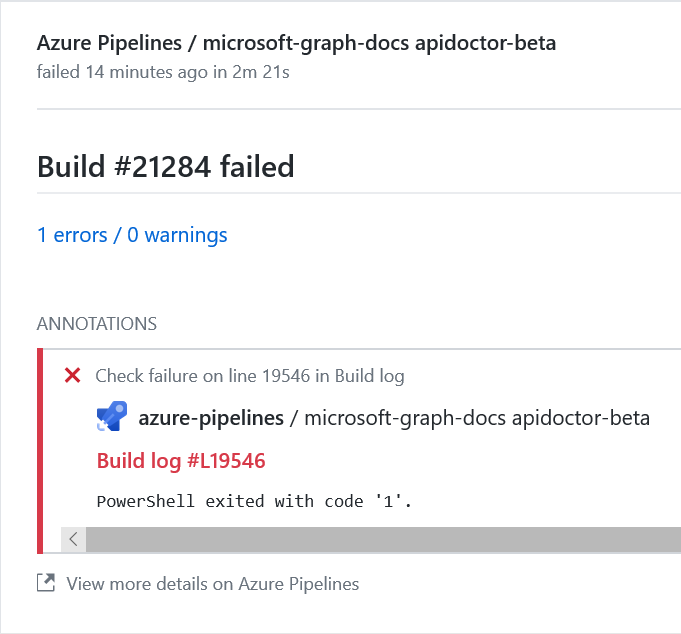
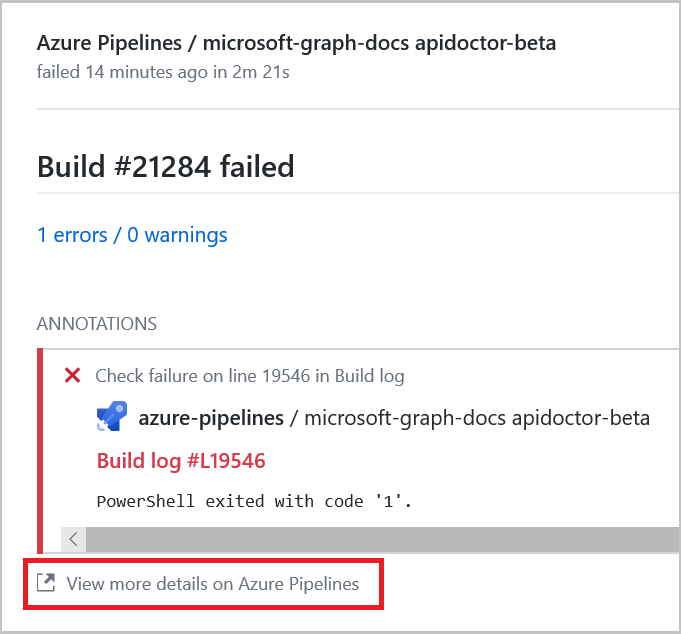
corrections

Changed region(s): [[0.0, 0.8691, 1.0, 1.0], [0.0, 0.0, 1.0, 0.8391]]

diff --git a/api-reference/beta/resources/graph-update-content.md b/api-reference/beta/resources/graph-update-content.md
@@ -44,15 +44,15 @@ All of the steps in this section are optional depending on the type of updates y
 3. Add information to the new or existing API topics using the following guidance:
     - Use a single sentence to summarize the purpose of the API. Add links to any referenced resources.
     - Provide any information that is relevant to using the API, before the **Permissions** section.
-    - Add applicable permissions to the Permissions table.
+    - Add applicable permissions to the **Permissions** table.
     - Add any HTTP request examples to the **HTTP request** section.
     - Document applicable parameters, such as OData query parameters, path parameters, and function parameters. You may need to customize parameter documentation under the appropriate section.
     - Add request headers that apply, stating which ones are required or optional. In stub generated files, remove those headers that don't apply, for example, content-type for an API that doesn't use a request body.
     - Include properties in the request body that apply. Enhance descriptions where helpful.
-    - Describe any returned object in the Response section and provide a link to its topic. If applicable, you can include error code information here as well, by adding an H3 Errors section.
+    - Describe any returned object in the **Response** section and provide a link to its topic. If applicable, you can include error code information here as well, by adding an H3 **Errors** section.
     - Replace the existing generated pseudo examples by ones that are common use cases of your API. Provide real-looking property values, not pseudo property values. Make sure you tag examples appropriately to enable API Doctor to maintain their currency over time. Note: there is no action item for authors adding or updating REST examples to enable the interactive try-it experience embedded in an API topic, or to add or update language-dependent example code snippets. The weekly automated sweep on Tuesdays is intended to make the necessary updates to maintain these two experiences.
-    - Provide any additional links to related concept topics, or other related API topics that haven't been linked to in context earlier in the topic in a See also section.
-4.	In the Methods section of the parent resource topic, make sure the API method is part of the methods table, and has a consistent description.
+    - Provide any additional links to related concept topics, or other related API topics that haven't been linked to in context earlier in the topic in a **See also** section.
+4.	In the **Methods** section of the parent resource topic, make sure the API method is part of the methods table, and has a consistent description.
 
 ## Add or update a resource topic
 
@@ -63,11 +63,11 @@ All of the steps in this section are optional depending on the type of updates y
     - A large scale update needs to be made to existing API docs (where overwriting the existing docs is preferred over updating them). Extreme care should be taken when using this scenario.
     
     Microsoft Graph uses CSDL (and XML format) for defining its API surface. The stub generator scripts produce stub markdown files based on the definitions in the CSDL file. Do not change the file names that are generated by the tool. Do not reorder sections in a generated topic. Do not customize generated table columns. For more information, see [Use the Microsoft Graph REST API docs stub generator](https://msgo.azurewebsites.net/add/document/guidelines/stub-generator.html).
-2. If you ran the stub generator scripts, copy the lines in the JSON representation section and Properties section that pertain to the new properties.
+2. If you ran the stub generator scripts, copy the reasource topics that you need to the branch that you created. You can also just copy the lines in the **JSON representation** section and **Properties** section that pertain to new properties in existing topics.
 3. Add information to the new or existing resource topics using the following guidance:
-    - Update the Properties section by adding or updating a table row for each property, providing the type and relevant description. If there's more content than a table cell can reasonably display, consider creating a separate section with an H3 heading following the properties table.
-    - Add any new navigation properties to the Relationships section, and not to the Properties section.
-    - In the JSON representation section, update the JSON that is enclosed in the HTML comment at the top of this section. In particular, make sure the following attributes are specified correctly where applicable: @odata.type, baseType, keyProperty, openType, optionalProperties. Also, add any new navigation properties to the list of optionalProperties. See details for how to [describe a resource in a JSON object](https://msgo.azurewebsites.net/add/document/guidelines/api-doctor-validate-examples.html#describe-a-resource-example-request-or-example-response-in-a-json-object).
+    - Update the **Properties** section by adding or updating a table row for each property, providing the type and relevant description. If there's more content than a table cell can reasonably display, consider creating a separate section with an H3 heading following the **Properties** table.
+    - Add any new navigation properties to the **Relationships** section, and not to the **Properties** section.
+    - In the **JSON representation** section, update the JSON that is enclosed in the HTML comment at the top of this section. In particular, make sure the following attributes are specified correctly where applicable: `@odata.type`, `baseType`, `keyProperty`, `openType`, `optionalProperties`. Also, add any new navigation properties to the list of `optionalProperties`. See details for how to [describe a resource in a JSON object](https://msgo.azurewebsites.net/add/document/guidelines/api-doctor-validate-examples.html#describe-a-resource-example-request-or-example-response-in-a-json-object).
     - In the actual JSON definition, add or update the property name and type.
     - Include properties in existing examples where applicable, for example, if a GET operation includes the properties in its response. If helpful to customers, or if the new properties are for a compelling scenario, create new examples to show usage of the new properties.
 

diff --git a/api-reference/beta/resources/graph-api-doctor.md b/api-reference/beta/resources/graph-api-doctor.md
@@ -16,11 +16,15 @@ API Doctor validates an HTTP example against the related resources and checks fo
 
 ## Find the error message
 
-1. API Doctor runs when you push a change to a pull request. If API Doctor discovers an issue, you see the following message in the GitHub web page. Click **Details** to proceed:
+1. API Doctor runs when you push a change to a pull request. If API Doctor discovers an issue, you see the following message in the GitHub web page. Click **Details** to proceed.
 
     ![API Doctor error](graph-api-doctor-error.png)
 
-2. On the API Doctor Logs page, click the text that says **PowerShell exited with code \'1\'**:
+2. On the details page, select **View more details on Azure Pipelines**.
+
+    ![Azure Pipelines](graph-api-doctor-pipelines.png)
+
+2. On the API Doctor Logs page, click the text that says **PowerShell exited with code \'1\'**.
 
     ![API Doctor logs](graph-api-doctor-logs.png)
 
